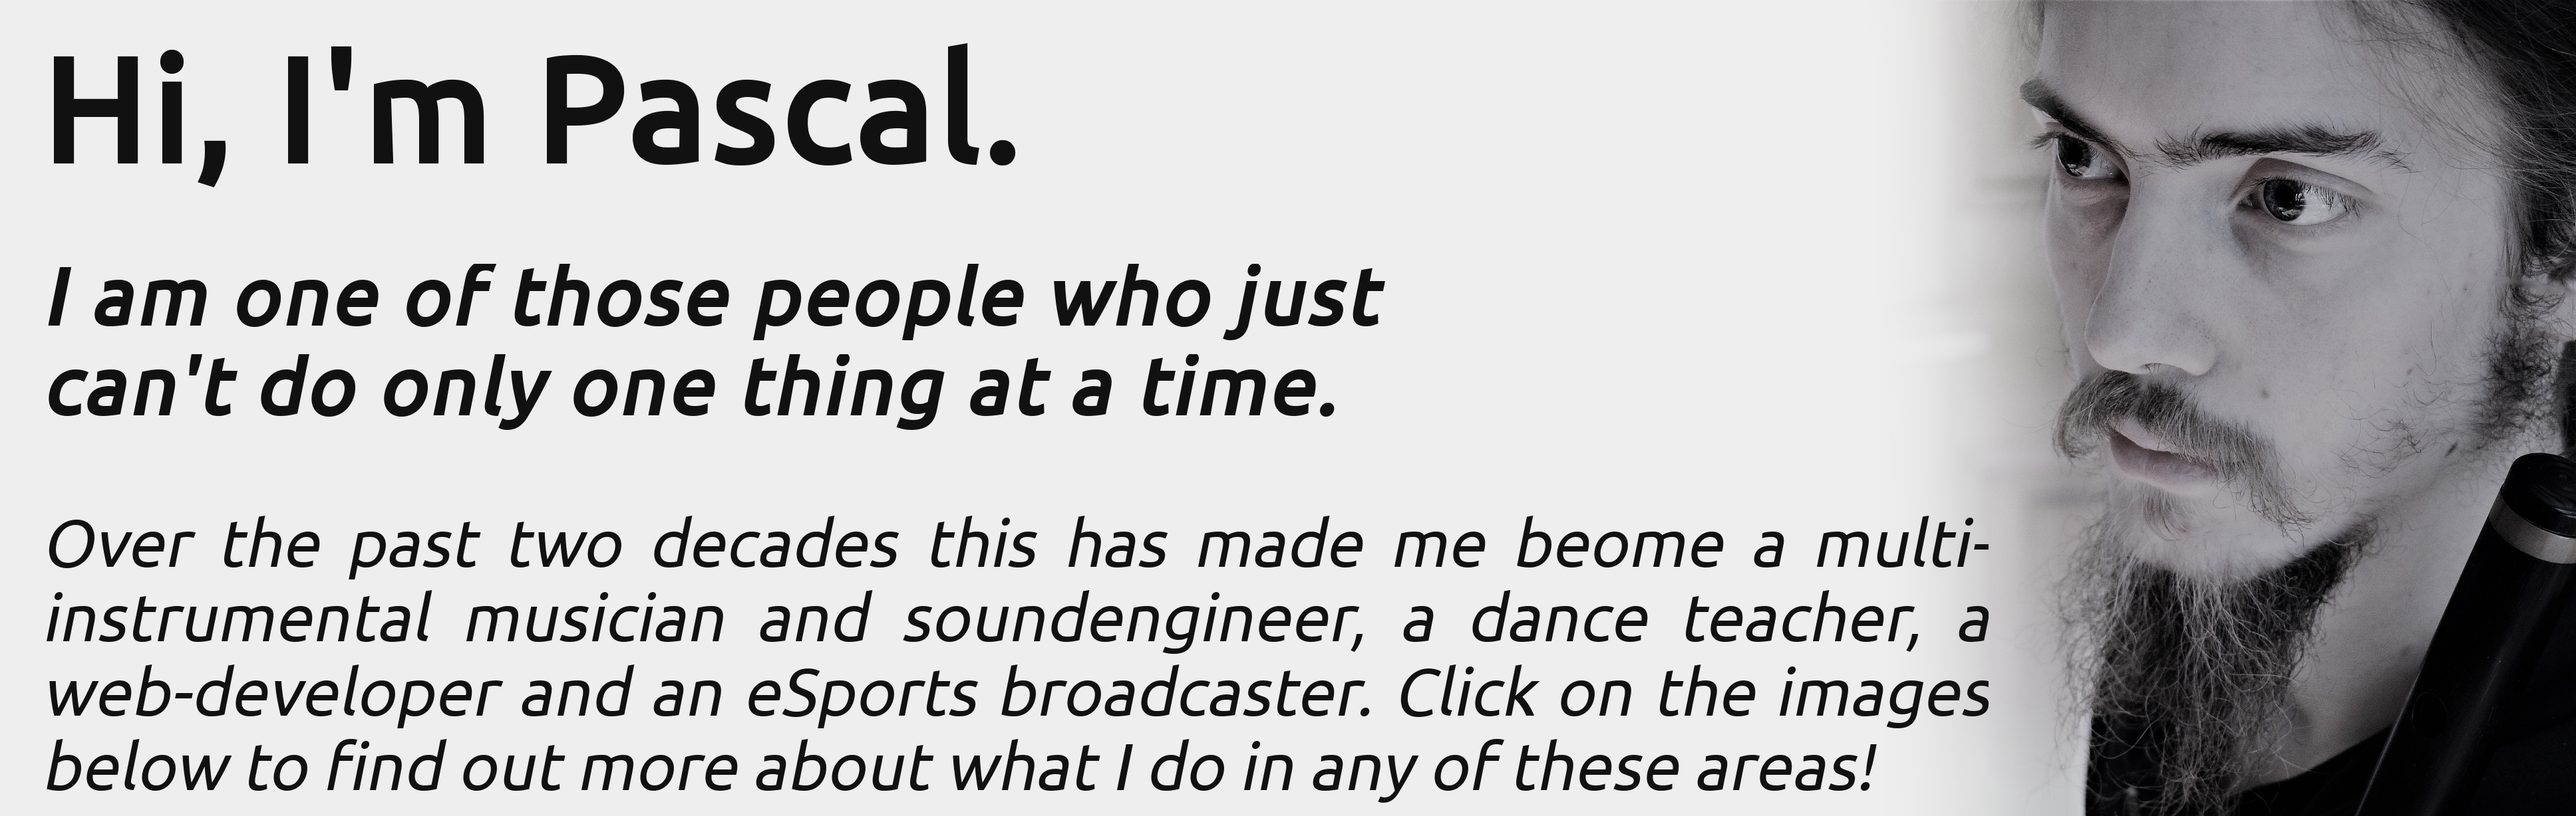
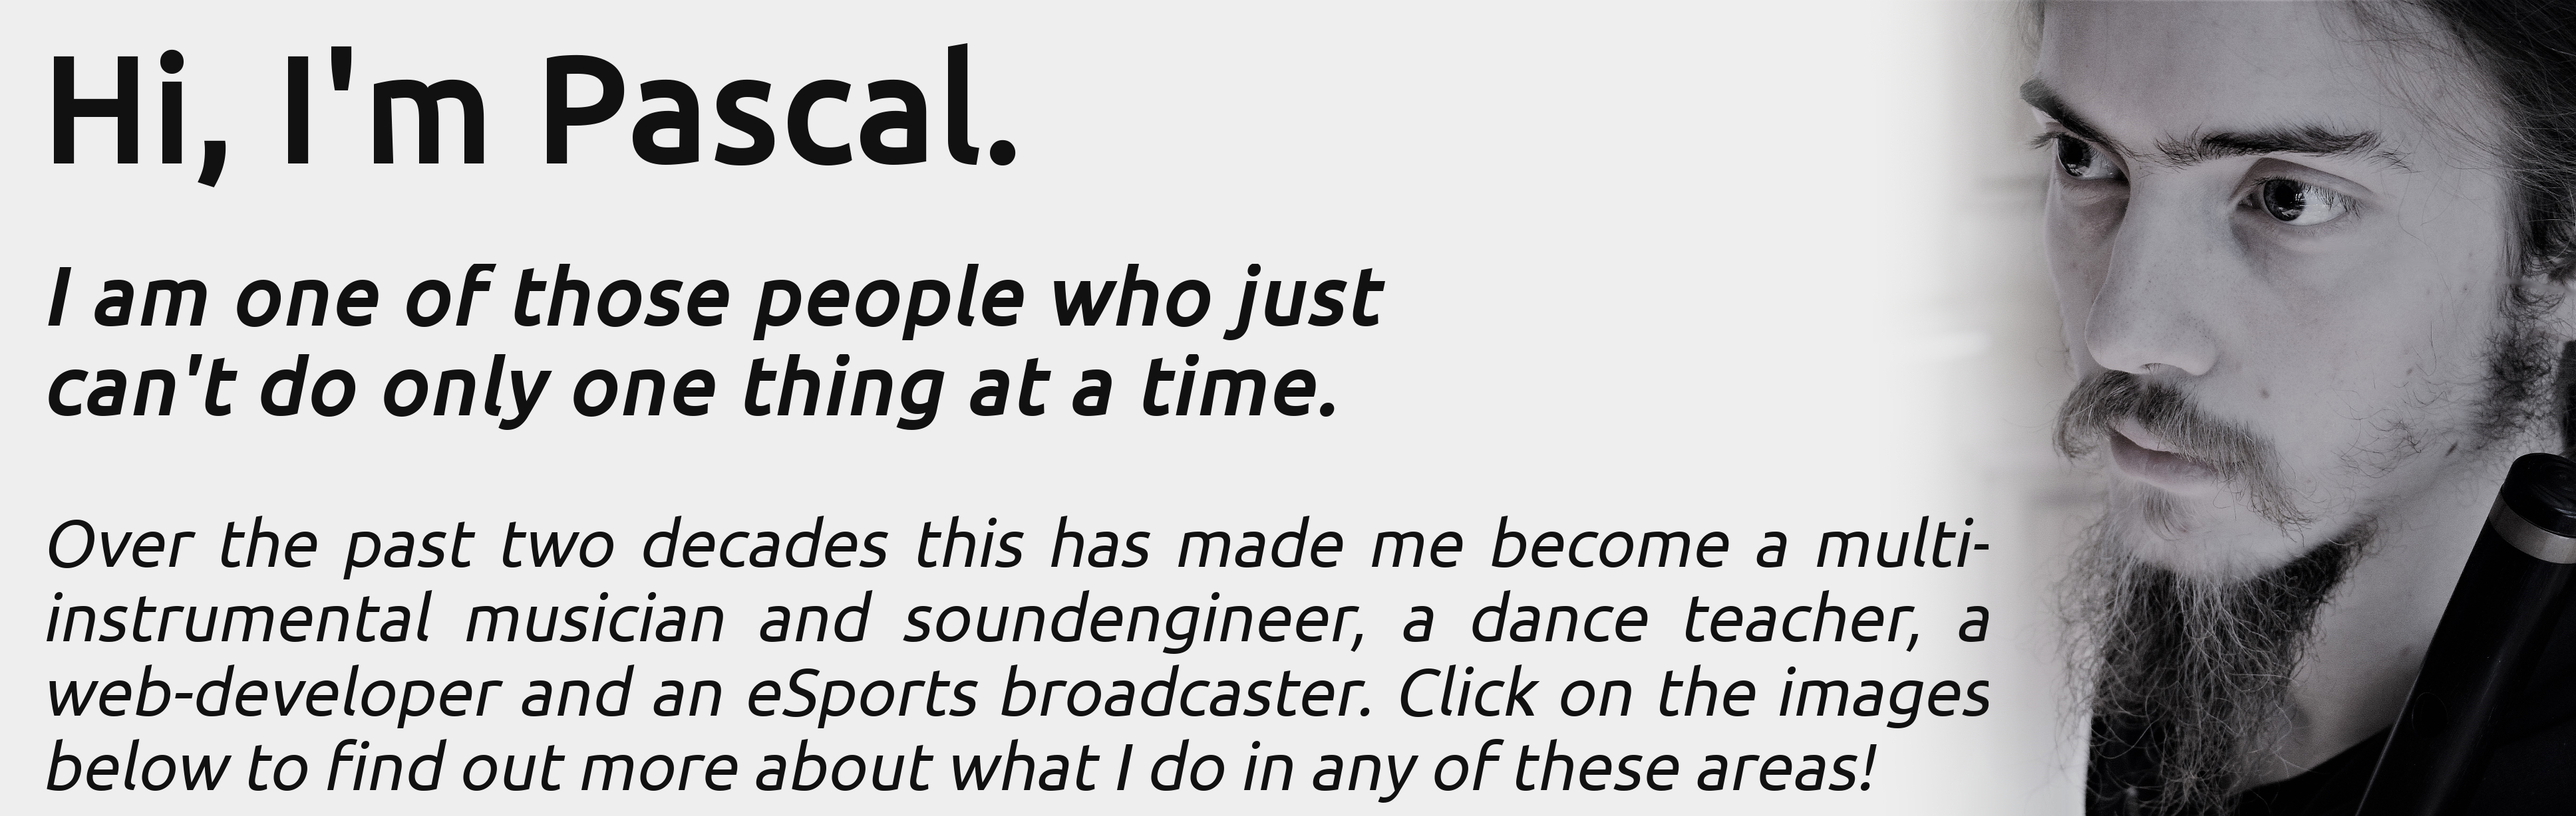
fixed misspelling in bio

Changed region(s): [[0.0938, 0.6189, 0.6875, 0.7117]]

diff --git a/index.html b/index.html
@@ -16,7 +16,7 @@
 
     <!-- about -->
     <h1 style="display: none;">Pascal Rüegger - Musician, Dancer, Developer, Broadcaster</h1>
-    <img src="img/Bio.jpg" style="width: 100%; padding: 30px 4px 0px 10px;">
+    <img src="img/bio.jpg" style="width: 100%; padding: 30px 4px 0px 10px;">
 
     <div id="themeFrame">
 
